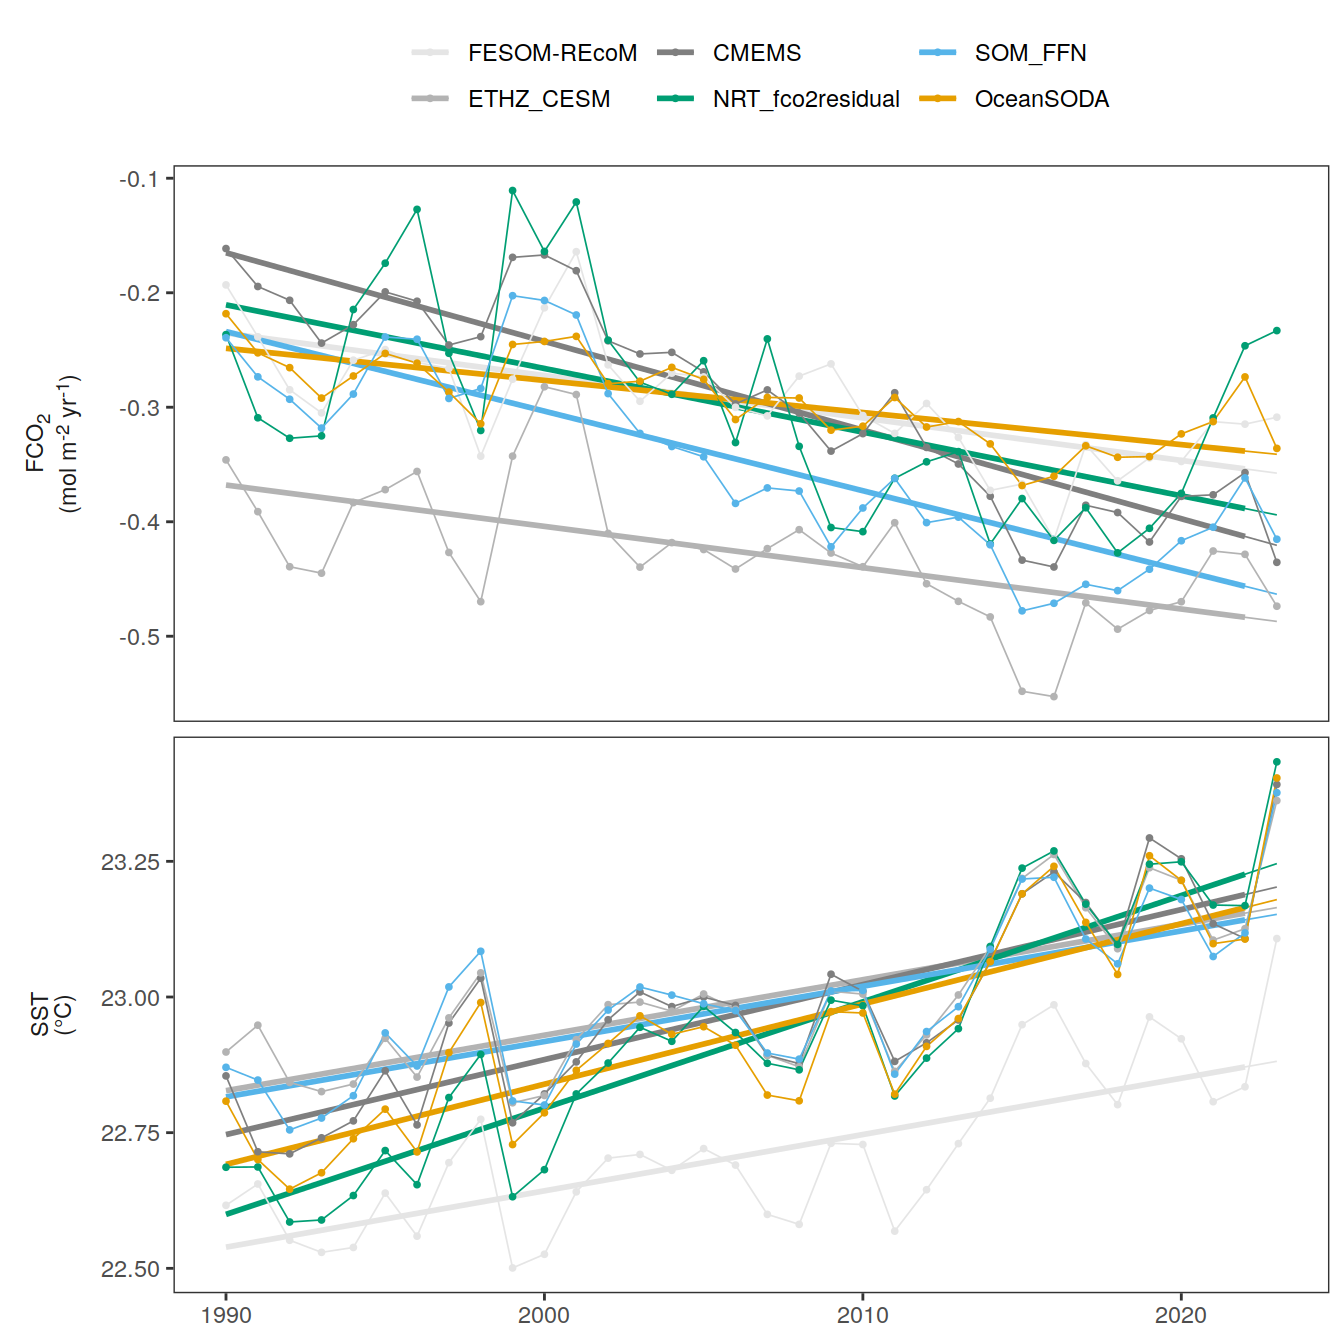
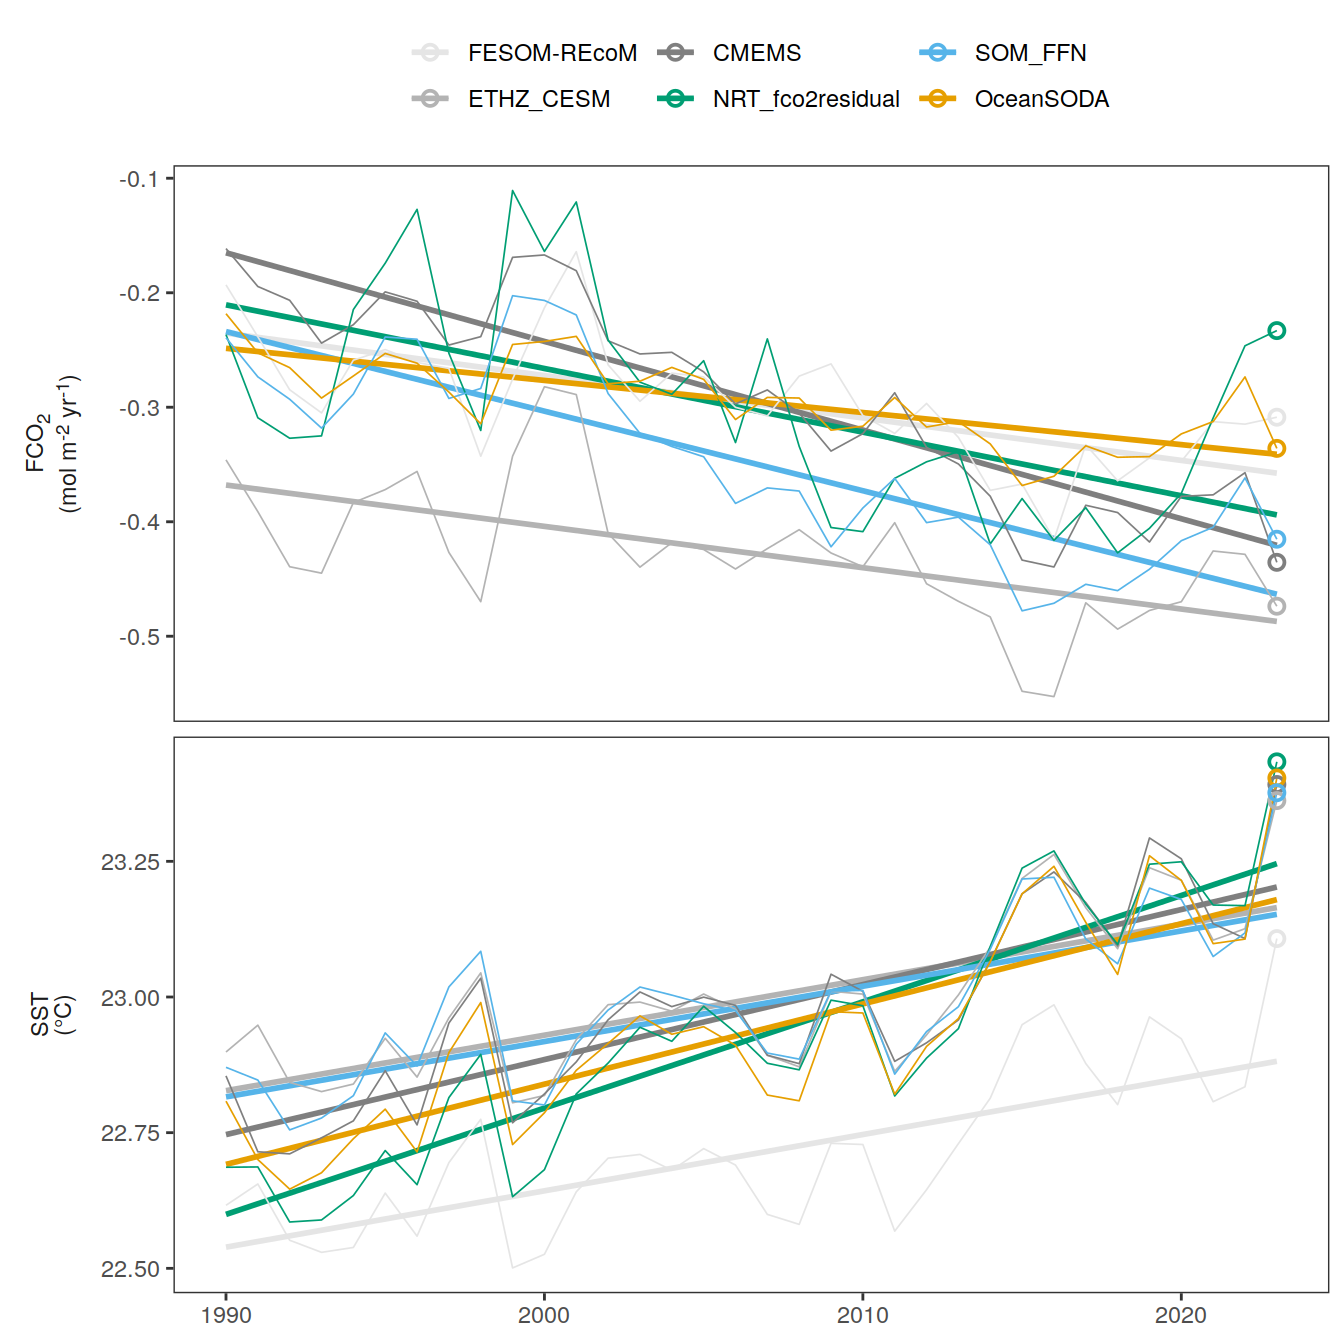
Build site.

diff --git a/docs/pco2_product_synopsis_2023.html b/docs/pco2_product_synopsis_2023.html
@@ -603,15 +603,15 @@ project makes it easier to run your code on other machines.</p>
 <div class="panel panel-default">
 <div class="panel-heading">
 <p class="panel-title">
-<a data-toggle="collapse" data-parent="#workflowr-checks" href="#strongRepositoryversionstrongahrefhttpsgithubcomjensdanielmuellerheatwaveco2flux2023tree571e2f833d97520de85b04097c129b600ccd2ccdtargetblank571e2f8a">
+<a data-toggle="collapse" data-parent="#workflowr-checks" href="#strongRepositoryversionstrongahrefhttpsgithubcomjensdanielmuellerheatwaveco2flux2023tree7868a54e58b4075879e8ed7b713056a68804b05ctargetblank7868a54a">
 <span class="glyphicon glyphicon-ok text-success"
 aria-hidden="true"></span> <strong>Repository version:</strong>
-<a href="https://github.com/jens-daniel-mueller/heatwave_co2_flux_2023/tree/571e2f833d97520de85b04097c129b600ccd2ccd" target="_blank">571e2f8</a>
+<a href="https://github.com/jens-daniel-mueller/heatwave_co2_flux_2023/tree/7868a54e58b4075879e8ed7b713056a68804b05c" target="_blank">7868a54</a>
 </a>
 </p>
 </div>
 <div
[2 lines of base64/hex data omitted]
 class="panel-collapse collapse">
 <div class="panel-body">
 <p>
@@ -621,7 +621,7 @@ reproducibility.
 </p>
 <p>
 The results in this page were generated with repository version
-<a href="https://github.com/jens-daniel-mueller/heatwave_co2_flux_2023/tree/571e2f833d97520de85b04097c129b600ccd2ccd" target="_blank">571e2f8</a>.
+<a href="https://github.com/jens-daniel-mueller/heatwave_co2_flux_2023/tree/7868a54e58b4075879e8ed7b713056a68804b05c" target="_blank">7868a54</a>.
 See the <em>Past versions</em> tab to see a history of the changes made
 to the R Markdown and HTML files.
 </p>
@@ -689,6 +689,23 @@ Message
 </tr>
 </thead>
 <tbody>
+<tr>
+<td>
+html
+</td>
+<td>
+<a href="https://rawcdn.githack.com/jens-daniel-mueller/heatwave_co2_flux_2023/7868a54e58b4075879e8ed7b713056a68804b05c/docs/pco2_product_synopsis_2023.html" target="_blank">7868a54</a>
+</td>
+<td>
+jens-daniel-mueller
+</td>
+<td>
+2024-05-22
+</td>
+<td>
+Build site.
+</td>
+</tr>
 <tr>
 <td>
 html
@@ -10812,12 +10829,13 @@ year, hence preserving the seasonality.</p>
   geom_smooth(data = . %&gt;% filter(year != 2023),
               method = &quot;lm&quot;,
               se = FALSE,
-              fullrange = TRUE, linewidth = 0.3) +
-  geom_smooth(data = . %&gt;% filter(year != 2023),
-              method = &quot;lm&quot;,
-              se = FALSE) +
+              fullrange = TRUE) +
+  # geom_smooth(data = . %&gt;% filter(year != 2023),
+  #             method = &quot;lm&quot;,
+  #             se = FALSE) +
   geom_path(linewidth = 0.3) +
-  geom_point(size = .7) +
+  geom_point(data = . %&gt;% filter(year == 2023),
+             shape = 21, fill = &quot;transparent&quot;, size = 2, stroke = 1) +
   scale_color_manual(values = color_products) +
   facet_grid(name ~ .,
              scales = &quot;free_y&quot;,
@@ -24299,6 +24317,43 @@ jens-daniel-mueller
   p_season(dim_col = &quot;biome&quot;,
            title = &quot;Anomalies from predicted monthly mean&quot;)</code></pre>
 <p><img src="figure/pco2_product_synopsis_2023.Rmd/merged_seasonality_OceanSODA-1.png" width="672" style="display: block; margin: auto;" /></p>
+<p>
+<button type="button" class="btn btn-default btn-xs btn-workflowr btn-workflowr-fig" data-toggle="collapse" data-target="#fig-merged_seasonality_OceanSODA-1">
+Past versions of merged_seasonality_OceanSODA-1.png
+</button>
+</p>
+<div id="fig-merged_seasonality_OceanSODA-1" class="collapse">
+<div class="table-responsive">
+<table class="table table-condensed table-hover">
+<thead>
+<tr>
+<th>
+Version
+</th>
+<th>
+Author
+</th>
+<th>
+Date
+</th>
+</tr>
+</thead>
+<tbody>
+<tr>
+<td>
+<a href="https://github.com/jens-daniel-mueller/heatwave_co2_flux_2023/blob/7868a54e58b4075879e8ed7b713056a68804b05c/docs/figure/pco2_product_synopsis_2023.Rmd/merged_seasonality_OceanSODA-1.png" target="_blank">7868a54</a>
+</td>
+<td>
+jens-daniel-mueller
+</td>
+<td>
+2024-05-22
+</td>
+</tr>
+</tbody>
+</table>
+</div>
+</div>
 <pre class="r"><code>pco2_product_biome_monthly_flux_attribution %&gt;%
   filter(
     product == &quot;OceanSODA&quot;,
@@ -24308,6 +24363,43 @@ jens-daniel-mueller
   p_season(dim_col = &quot;biome&quot;,
            title = &quot;Main drivers of flux anomaly&quot;)</code></pre>
 <p><img src="figure/pco2_product_synopsis_2023.Rmd/merged_seasonality_OceanSODA-2.png" width="672" style="display: block; margin: auto;" /></p>
+<p>
+<button type="button" class="btn btn-default btn-xs btn-workflowr btn-workflowr-fig" data-toggle="collapse" data-target="#fig-merged_seasonality_OceanSODA-2">
+Past versions of merged_seasonality_OceanSODA-2.png
+</button>
+</p>
+<div id="fig-merged_seasonality_OceanSODA-2" class="collapse">
+<div class="table-responsive">
+<table class="table table-condensed table-hover">
+<thead>
+<tr>
+<th>
+Version
+</th>
+<th>
+Author
+</th>
+<th>
+Date
+</th>
+</tr>
+</thead>
+<tbody>
+<tr>
+<td>
+<a href="https://github.com/jens-daniel-mueller/heatwave_co2_flux_2023/blob/7868a54e58b4075879e8ed7b713056a68804b05c/docs/figure/pco2_product_synopsis_2023.Rmd/merged_seasonality_OceanSODA-2.png" target="_blank">7868a54</a>
+</td>
+<td>
+jens-daniel-mueller
+</td>
+<td>
+2024-05-22
+</td>
+</tr>
+</tbody>
+</table>
+</div>
+</div>
 <pre class="r"><code>pco2_product_biome_monthly_fCO2_decomposition %&gt;%
   filter(product == &quot;OceanSODA&quot;,
          name %in% c(&quot;sfco2_nontherm&quot;, &quot;sfco2_therm&quot;),
@@ -24315,6 +24407,43 @@ jens-daniel-mueller
   p_season(dim_col = &quot;biome&quot;,
            title = &quot;Decomposition of fCO2 anomaly&quot;)  </code></pre>
 <p><img src="figure/pco2_product_synopsis_2023.Rmd/merged_seasonality_OceanSODA-3.png" width="672" style="display: block; margin: auto;" /></p>
+<p>
+<button type="button" class="btn btn-default btn-xs btn-workflowr btn-workflowr-fig" data-toggle="collapse" data-target="#fig-merged_seasonality_OceanSODA-3">
+Past versions of merged_seasonality_OceanSODA-3.png
+</button>
+</p>
+<div id="fig-merged_seasonality_OceanSODA-3" class="collapse">
+<div class="table-responsive">
+<table class="table table-condensed table-hover">
+<thead>
+<tr>
+<th>
+Version
+</th>
+<th>
+Author
+</th>
+<th>
+Date
+</th>
+</tr>
+</thead>
+<tbody>
+<tr>
+<td>
+<a href="https://github.com/jens-daniel-mueller/heatwave_co2_flux_2023/blob/7868a54e58b4075879e8ed7b713056a68804b05c/docs/figure/pco2_product_synopsis_2023.Rmd/merged_seasonality_OceanSODA-3.png" target="_blank">7868a54</a>
+</td>
+<td>
+jens-daniel-mueller
+</td>
+<td>
+2024-05-22
+</td>
+</tr>
+</tbody>
+</table>
+</div>
+</div>
 <pre class="r"><code>pco2_product_monthly_detrended %&gt;% 
   filter(year == 2023,
          name %in% c(&quot;temperature&quot;, &quot;fgco2&quot;),
@@ -24340,6 +24469,43 @@ jens-daniel-mueller
     legend.title = element_blank()
   )</code></pre>
 <p><img src="figure/pco2_product_synopsis_2023.Rmd/merged_seasonality_all_products-1.png" width="672" style="display: block; margin: auto;" /></p>
+<p>
+<button type="button" class="btn btn-default btn-xs btn-workflowr btn-workflowr-fig" data-toggle="collapse" data-target="#fig-merged_seasonality_all_products-1">
+Past versions of merged_seasonality_all_products-1.png
+</button>
+</p>
+<div id="fig-merged_seasonality_all_products-1" class="collapse">
+<div class="table-responsive">
+<table class="table table-condensed table-hover">
+<thead>
+<tr>
+<th>
+Version
+</th>
+<th>
+Author
+</th>
+<th>
+Date
+</th>
+</tr>
+</thead>
+<tbody>
+<tr>
+<td>
+<a href="https://github.com/jens-daniel-mueller/heatwave_co2_flux_2023/blob/7868a54e58b4075879e8ed7b713056a68804b05c/docs/figure/pco2_product_synopsis_2023.Rmd/merged_seasonality_all_products-1.png" target="_blank">7868a54</a>
+</td>
+<td>
+jens-daniel-mueller
+</td>
+<td>
+2024-05-22
+</td>
+</tr>
+</tbody>
+</table>
+</div>
+</div>
 <pre class="r"><code>pco2_product_biome_monthly_flux_attribution %&gt;%
   filter(year == 2023,
          name %in% c(&quot;resid_fgco2_dfco2&quot;, &quot;resid_fgco2_kw_sol&quot;),
@@ -24365,6 +24531,43 @@ jens-daniel-mueller
     legend.title = element_blank()
   )</code></pre>
 <p><img src="figure/pco2_product_synopsis_2023.Rmd/merged_seasonality_all_products-2.png" width="672" style="display: block; margin: auto;" /></p>
+<p>
+<button type="button" class="btn btn-default btn-xs btn-workflowr btn-workflowr-fig" data-toggle="collapse" data-target="#fig-merged_seasonality_all_products-2">
+Past versions of merged_seasonality_all_products-2.png
+</button>
+</p>
+<div id="fig-merged_seasonality_all_products-2" class="collapse">
+<div class="table-responsive">
+<table class="table table-condensed table-hover">
+<thead>
+<tr>
+<th>
+Version
+</th>
+<th>
+Author
+</th>
+<th>
+Date
+</th>
+</tr>
+</thead>
+<tbody>
+<tr>
+<td>
+<a href="https://github.com/jens-daniel-mueller/heatwave_co2_flux_2023/blob/7868a54e58b4075879e8ed7b713056a68804b05c/docs/figure/pco2_product_synopsis_2023.Rmd/merged_seasonality_all_products-2.png" target="_blank">7868a54</a>
+</td>
+<td>
+jens-daniel-mueller
+</td>
+<td>
+2024-05-22
+</td>
+</tr>
+</tbody>
+</table>
+</div>
+</div>
 <pre class="r"><code>pco2_product_biome_monthly_fCO2_decomposition %&gt;% 
   filter(year == 2023,
          name %in% c(&quot;sfco2_nontherm&quot;, &quot;sfco2_therm&quot;),
@@ -24390,6 +24593,43 @@ jens-daniel-mueller
     legend.title = element_blank()
   )</code></pre>
 <p><img src="figure/pco2_product_synopsis_2023.Rmd/merged_seasonality_all_products-3.png" width="672" style="display: block; margin: auto;" /></p>
+<p>
+<button type="button" class="btn btn-default btn-xs btn-workflowr btn-workflowr-fig" data-toggle="collapse" data-target="#fig-merged_seasonality_all_products-3">
+Past versions of merged_seasonality_all_products-3.png
+</button>
+</p>
+<div id="fig-merged_seasonality_all_products-3" class="collapse">
+<div class="table-responsive">
+<table class="table table-condensed table-hover">
+<thead>
+<tr>
+<th>
+Version
+</th>
+<th>
+Author
+</th>
+<th>
+Date
+</th>
+</tr>
+</thead>
+<tbody>
+<tr>
+<td>
+<a href="https://github.com/jens-daniel-mueller/heatwave_co2_flux_2023/blob/7868a54e58b4075879e8ed7b713056a68804b05c/docs/figure/pco2_product_synopsis_2023.Rmd/merged_seasonality_all_products-3.png" target="_blank">7868a54</a>
+</td>
+<td>
+jens-daniel-mueller
+</td>
+<td>
+2024-05-22
+</td>
+</tr>
+</tbody>
+</table>
+</div>
+</div>
 <br>
 <p>
 <button type="button" class="btn btn-default btn-workflowr btn-workflowr-sessioninfo" data-toggle="collapse" data-target="#workflowr-sessioninfo" style="display: block;">
